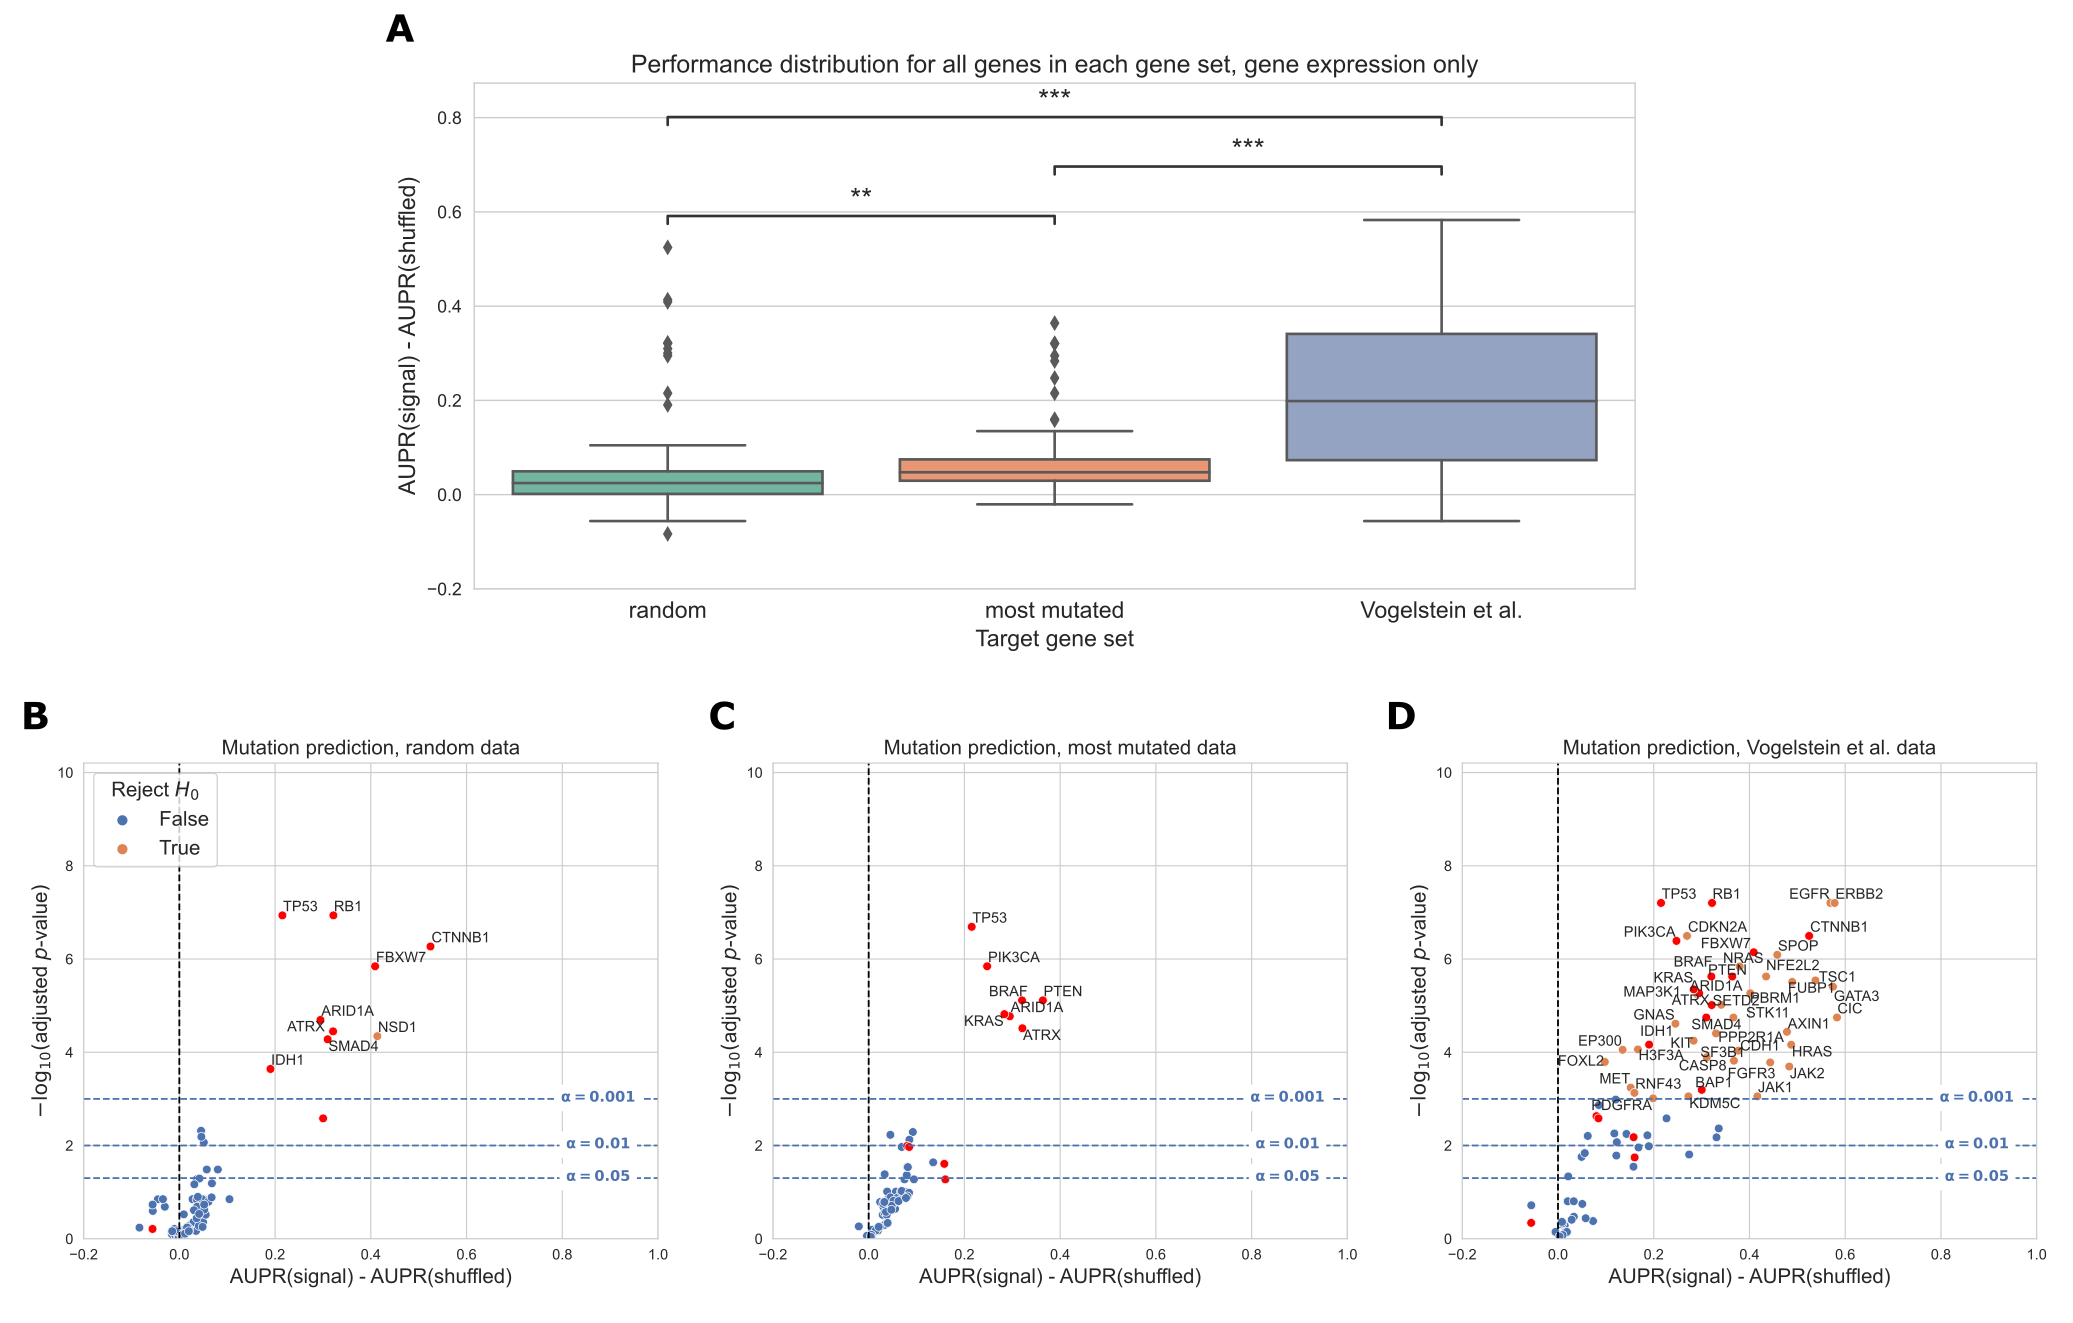
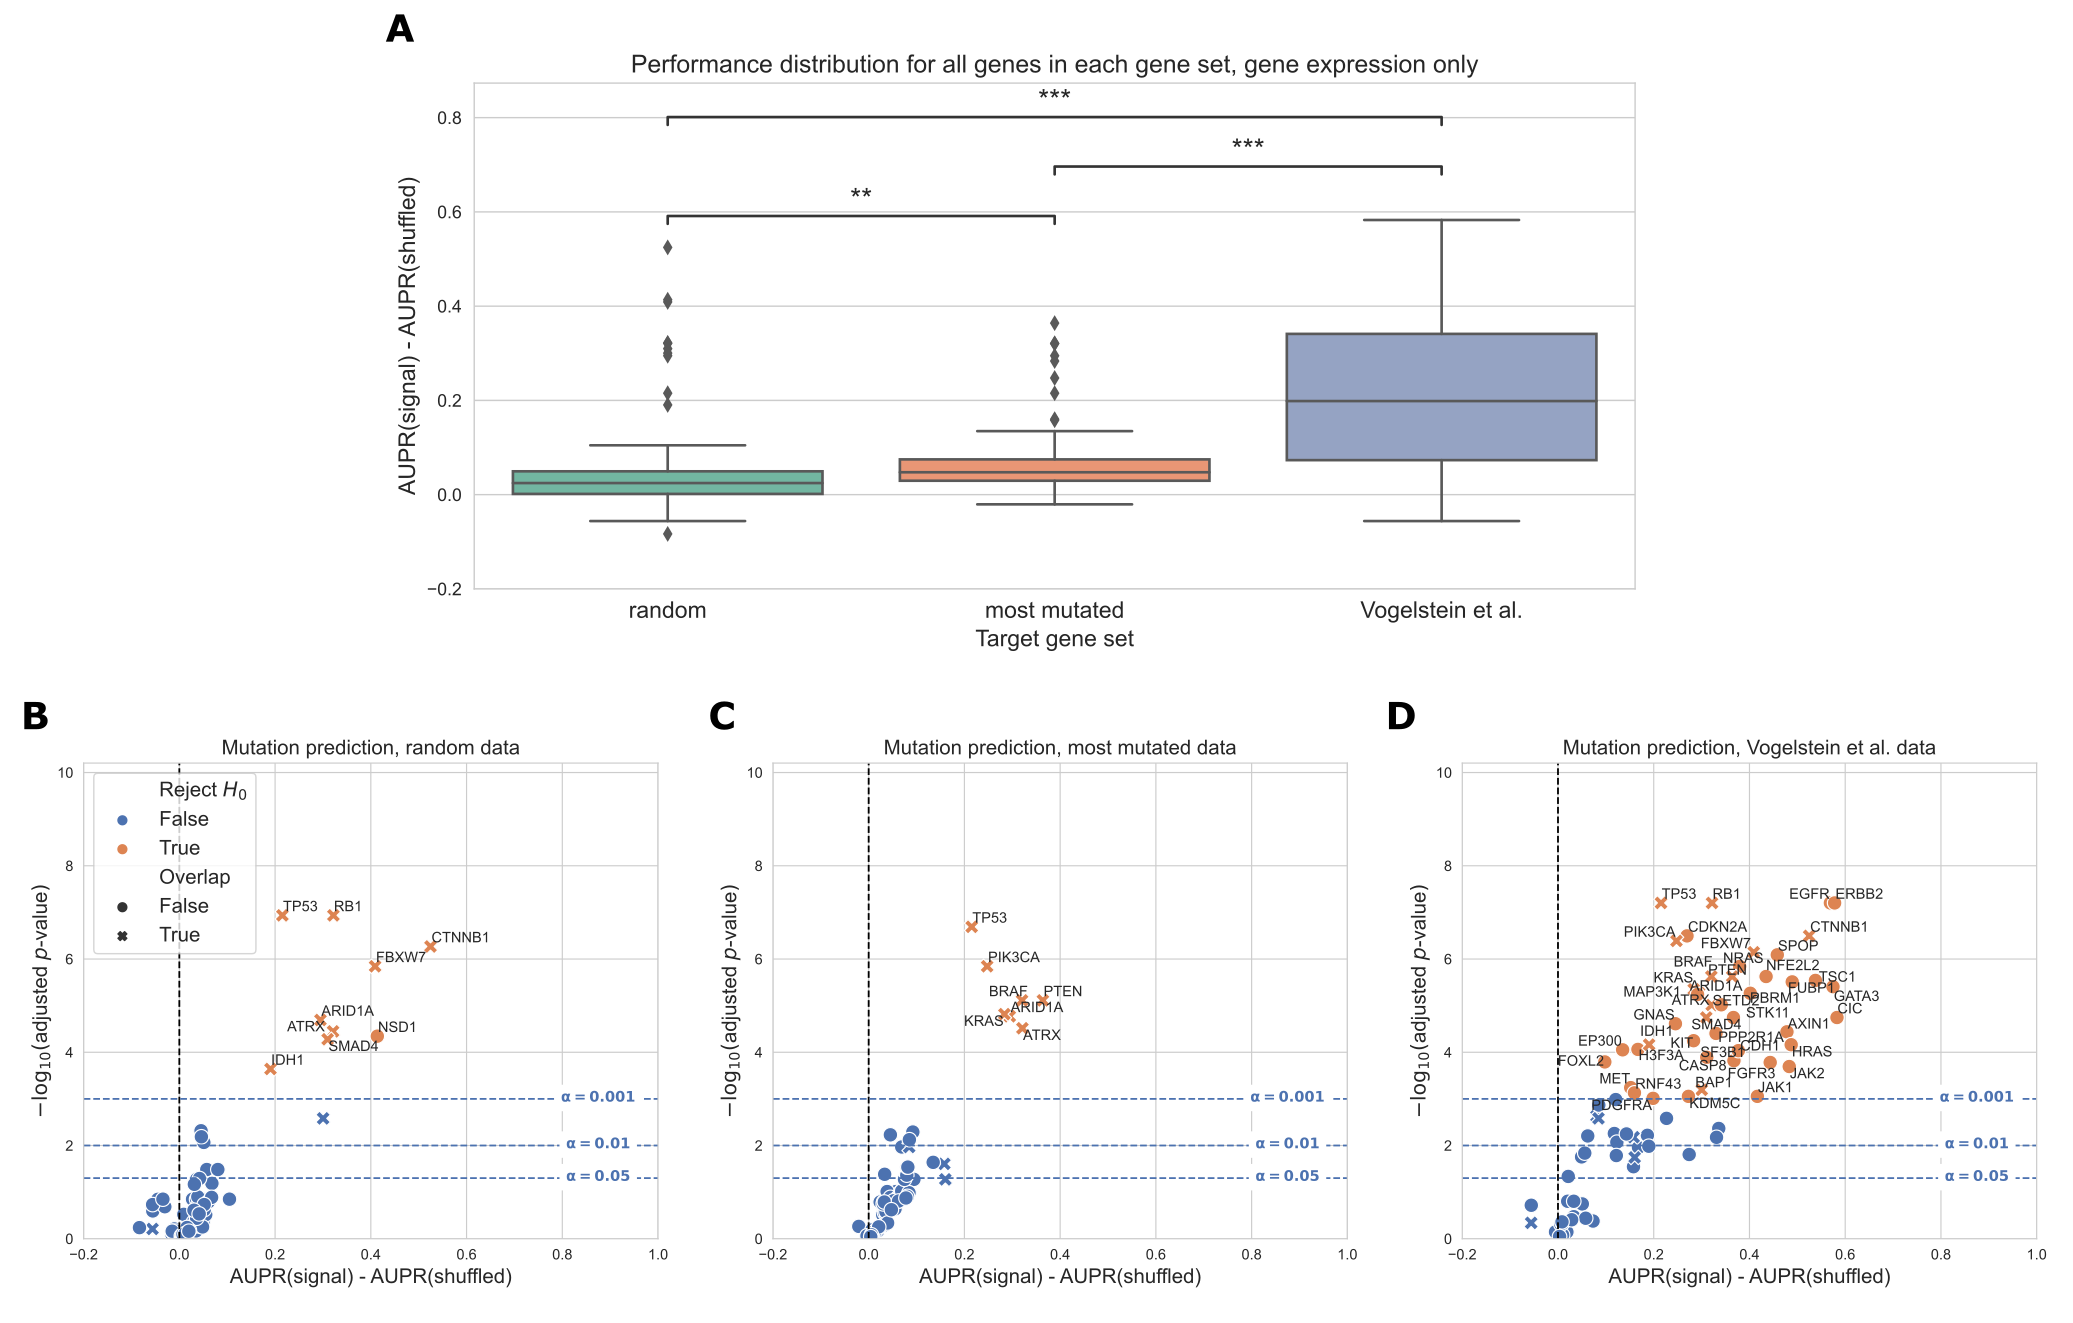
use style instead of color to distinguish overlap genes

diff --git a/content/02.introduction.md b/content/02.introduction.md
@@ -27,7 +27,7 @@ However, direct comparison among different data types for this application is la
 We select a collection of potential cancer drivers with varying functions and roles in cancer development [@doi:10.1126/science.1235122].
 We use mutation status in these genes as labels to train classifiers, using each of the data types listed as training data, in a pan-cancer setting; we follow similar methods to the elastic net logistic regression approach described in Way et al. 2018 [@doi:10.1016/j.celrep.2018.03.046] and Way et al. 2020 [@doi:10.1186/s13059-020-02021-3].
 We show that there is considerable predictive signal for many genes relative to a random baseline, and that gene expression and DNA methylation generally provide the best predictions of mutation state.
-Surprisingly, we find that across a variety of target genes, gene expression and DNA methylation are approximately equally effective predictors; the target gene, rather than the data type, is the primary determinant of performance.
+Surprisingly, we find that across a variety of genes, gene expression and DNA methylation are approximately equally effective predictors.
 We observe similar results for pan-cancer survival prediction across the same data types, with little separation between the top-performing data types.
 In addition, we observe that combining data types into a single multi-omics model for mutation prediction provides little, if any, performance benefit over the most performant model using a single data type.
 Our results will help to inform the design of future functional genomics studies in cancer, suggesting that for many strong drivers with clear functional signatures, gene expression and DNA methylation measurements provide similar information content.

diff --git a/content/04.results.md b/content/04.results.md
@@ -43,7 +43,7 @@ Each data point represents the mean cross-validated AUPR difference, compared wi
 Significance stars indicate results of Bonferroni-corrected pairwise Wilcoxon tests: \*\*: _p_ < 0.01, \*\*\*: _p_ < 0.001, ns: not statistically significant for a cutoff of _p_ = 0.05.
 **B, C, D.** Volcano-like plots showing mutation presence/absence predictive performance for each gene in each of the 3 gene sets.
 The _x_-axis shows the difference in mean AUPR compared with a baseline model trained on permuted labels, and the _y_-axis shows _p_-values for a paired _t_-test comparing cross-validated AUPR values within folds.
-Points (genes) highlighted in red are overlapping between the Vogelstein gene set and either the random or most mutated gene set.
+Points (genes) marked with an "X" are overlapping between the Vogelstein gene set and either the random or most mutated gene set.
 ](images/figure_2.png){#fig:expression_gene_sets width="90%"}
 
 ### Gene expression and DNA methylation have similar mutation prediction performance
